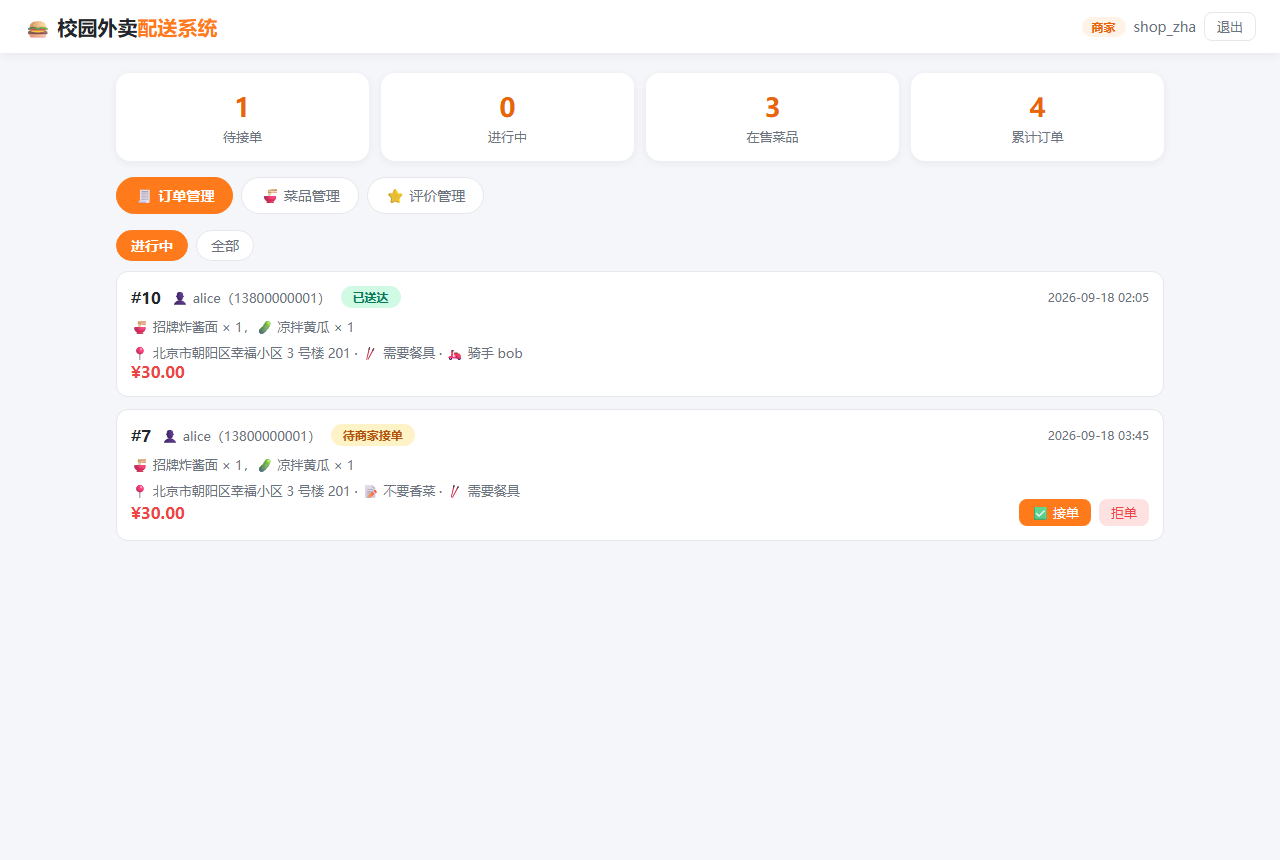
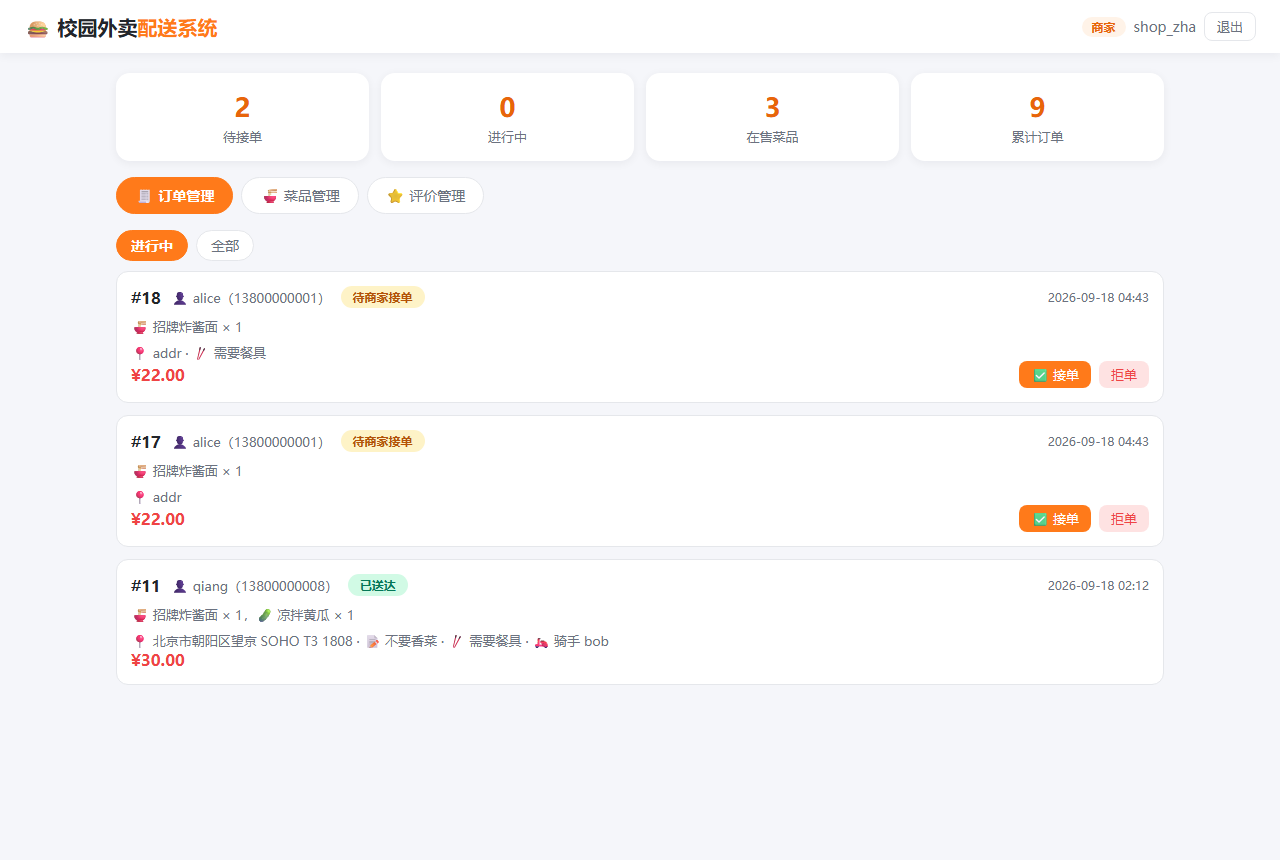
示例数据丰富化：4 位顾客 + 2 位骑手，14 个订单覆盖全部状态并分散到最近 7 天

diff --git a/waimai-preview/index.html b/waimai-preview/index.html
@@ -116,7 +116,7 @@ python init_db.py
 python app.py
 
 <span class="c"># 打开 http://127.0.0.1:5000 即可体验 🎉</span>
-<span class="c"># 示例账号：alice（顾客）· shop_zha（商家）· bob（骑手）· admin（管理员）</span></div>
+<span class="c"># 示例账号：alice / xiaomei / qiang / lina（顾客）· shop_zha（商家）· bob / zhou（骑手）· admin（管理员）</span></div>
   <p class="sub">跑通后可执行 <code>python tests/smoke_test.py</code>，70 项接口冒烟测试自动验证全流程。</p>
 
 </div>

diff --git a/waimai-delivery-system/init_db.py b/waimai-delivery-system/init_db.py
@@ -27,8 +27,9 @@ SQL_PATH = os.path.join(BASE_DIR, "schema_sqlite.sql")
 DB_PATH = os.path.join(BASE_DIR, "waimai.db")
 MIGRATE_PATH = os.path.join(BASE_DIR, "migrate_db.py")
 
-# 6 个示例用户，密码统一 123456
-SAMPLE_USERS = ["alice", "bob", "shop_zha", "shop_hu", "shop_guang", "admin"]
+# 10 个示例用户，密码统一 123456
+SAMPLE_USERS = ["alice", "bob", "shop_zha", "shop_hu", "shop_guang", "admin",
+                "xiaomei", "qiang", "lina", "zhou"]
 SAMPLE_PASSWORD = "123456"
 
 

diff --git a/waimai-delivery-system/README.md b/waimai-delivery-system/README.md
@@ -58,9 +58,9 @@ python app.py
 
 | 角色 | 用户名 | 说明 |
 | --- | --- | --- |
-| 顾客 | `alice` | 有历史订单与 2 个示例地址 |
+| 顾客 | `alice` / `xiaomei` / `qiang` / `lina` | 4 位顾客共同贡献 14 个历史订单（覆盖全部状态）+ 示例地址 |
 | 商家 | `shop_zha` / `shop_hu` / `shop_guang` | 各有店铺与菜品 |
-| 骑手 | `bob` | 有配送记录 |
+| 骑手 | `bob` / `zhou` | 两位骑手交替配送，有配送记录 |
 | 管理员 | `admin` | 看板全开 |
 
 ---
